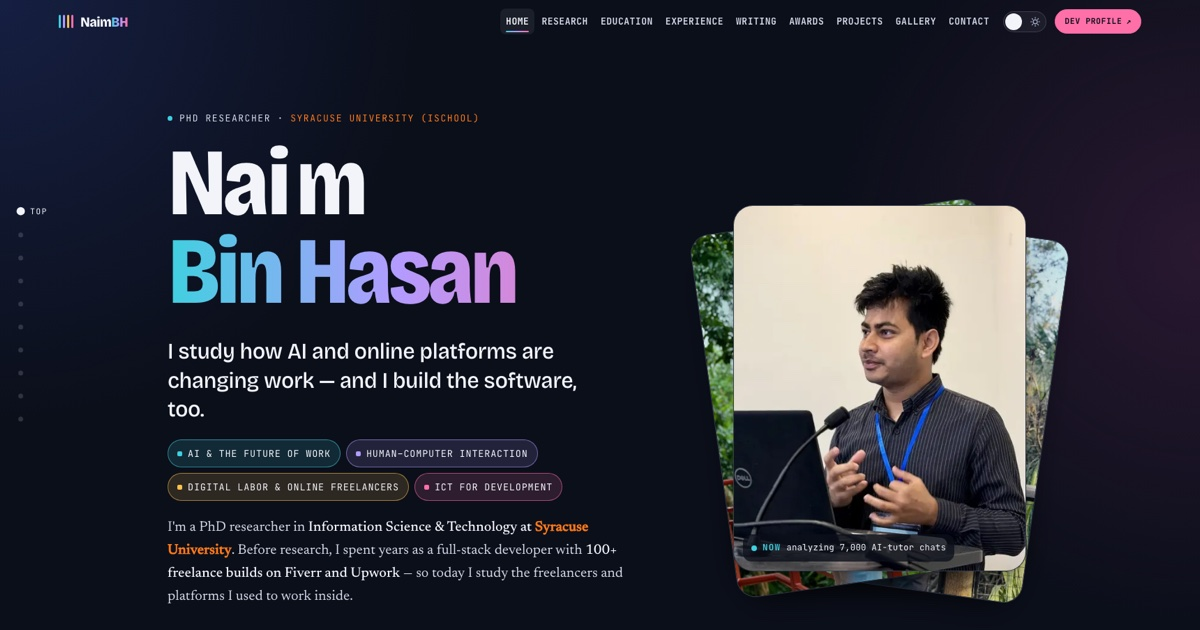
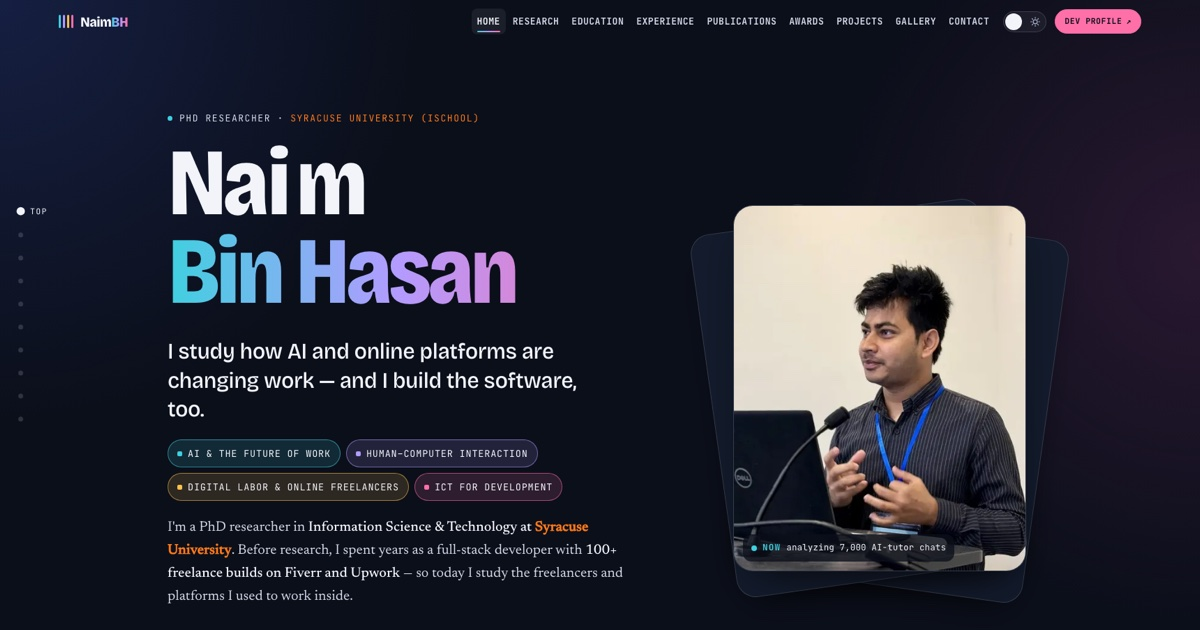
Nav: Writing -> Publications (/publications/, 301 from /writing/)

diff --git a/publications/index.html b/publications/index.html
@@ -25,7 +25,7 @@
 <meta name="facebook-domain-verification" content="nvlw079j5yth0kfxjmai7pc3fhv6aw">
 <meta name="color-scheme" content="dark light">
 <meta name="theme-color" content="#0B0F1A">
-<link rel="canonical" href="https://naimbh.com/writing/">
+<link rel="canonical" href="https://naimbh.com/publications/">
 <link rel="icon" href="/favicon.ico" sizes="48x48">
 <link rel="icon" href="/favicon.svg" type="image/svg+xml">
 <link rel="apple-touch-icon" href="/apple-touch-icon.png">
@@ -42,9 +42,9 @@
 <meta property="og:locale" content="en_US">
 <meta property="og:title" content="Publications &amp; Talks | Naim Bin Hasan">
 <meta property="og:description" content="Peer-reviewed journal articles, master's thesis and conference talks by Naim Bin Hasan (Hasan, N. B.) on AI, digital labor and Bangladeshi online freelancers.">
-<meta property="og:url" content="https://naimbh.com/writing/">
-<meta property="og:image" content="https://naimbh.com/images/og/naim-bin-hasan-academic-site.jpg?v=1">
-<meta property="og:image:secure_url" content="https://naimbh.com/images/og/naim-bin-hasan-academic-site.jpg?v=1">
+<meta property="og:url" content="https://naimbh.com/publications/">
+<meta property="og:image" content="https://naimbh.com/images/og/naim-bin-hasan-academic-site.jpg?v=2">
+<meta property="og:image:secure_url" content="https://naimbh.com/images/og/naim-bin-hasan-academic-site.jpg?v=2">
 <meta property="og:image:type" content="image/jpeg">
 <meta property="og:image:width" content="1200">
 <meta property="og:image:height" content="630">
@@ -53,7 +53,7 @@
 <meta name="twitter:card" content="summary_large_image">
 <meta name="twitter:title" content="Publications &amp; Talks | Naim Bin Hasan">
 <meta name="twitter:description" content="Peer-reviewed journal articles, master's thesis and conference talks by Naim Bin Hasan (Hasan, N. B.) on AI, digital labor and Bangladeshi online freelancers.">
-<meta name="twitter:image" content="https://naimbh.com/images/og/naim-bin-hasan-academic-site.jpg?v=1">
+<meta name="twitter:image" content="https://naimbh.com/images/og/naim-bin-hasan-academic-site.jpg?v=2">
 <meta name="twitter:image:alt" content="Homepage of naimbh.com: Naim Bin Hasan, PhD researcher at Syracuse University (iSchool)">
 
 <script type="application/ld+json">
@@ -62,8 +62,8 @@
   "@graph": [
     {
       "@type": "WebPage",
-      "@id": "https://naimbh.com/writing/#webpage",
-      "url": "https://naimbh.com/writing/",
+      "@id": "https://naimbh.com/publications/#webpage",
+      "url": "https://naimbh.com/publications/",
       "name": "Publications & Talks | Naim Bin Hasan",
       "description": "Peer-reviewed journal articles, master's thesis and conference talks by Naim Bin Hasan (Hasan, N. B.) on AI, digital labor and Bangladeshi online freelancers.",
       "inLanguage": "en",
@@ -74,13 +74,13 @@
         "@id": "https://naimbh.com/#person"
       },
       "breadcrumb": {
-        "@id": "https://naimbh.com/writing/#breadcrumb"
+        "@id": "https://naimbh.com/publications/#breadcrumb"
       },
       "dateModified": "2026-10-02"
     },
     {
       "@type": "BreadcrumbList",
-      "@id": "https://naimbh.com/writing/#breadcrumb",
+      "@id": "https://naimbh.com/publications/#breadcrumb",
       "itemListElement": [
         {
           "@type": "ListItem",
@@ -91,8 +91,8 @@
         {
           "@type": "ListItem",
           "position": 2,
-          "name": "Writing",
-          "item": "https://naimbh.com/writing/"
+          "name": "Publications",
+          "item": "https://naimbh.com/publications/"
         }
       ]
     },
@@ -985,7 +985,7 @@ html.lenis, html.lenis body{ height:auto; }
     <a href="/research/" data-sec="research">Research</a>
     <a href="/education/" data-sec="education">Education</a>
     <a href="/experience/" data-sec="work">Experience</a>
-    <a href="/writing/" data-sec="writing" class="on" aria-current="page">Writing</a>
+    <a href="/publications/" data-sec="writing" class="on" aria-current="page">Publications</a>
     <a href="/awards/" data-sec="recognition">Awards</a>
     <a href="/projects/" data-sec="projects">Projects</a>
     <a href="/gallery/" data-sec="gallery">Gallery</a>

diff --git a/index.html b/index.html
@@ -43,8 +43,8 @@
 <meta property="og:title" content="Naim Bin Hasan — PhD in IT Researcher, Syracuse University">
 <meta property="og:description" content="Researching AI and the future of work, human-computer interaction, digital labor and online freelancers, and ICT for development (ICT4D). Former full-stack developer with 100+ shipped builds.">
 <meta property="og:url" content="https://naimbh.com/">
-<meta property="og:image" content="https://naimbh.com/images/og/naim-bin-hasan-academic-site.jpg?v=1">
-<meta property="og:image:secure_url" content="https://naimbh.com/images/og/naim-bin-hasan-academic-site.jpg?v=1">
+<meta property="og:image" content="https://naimbh.com/images/og/naim-bin-hasan-academic-site.jpg?v=2">
+<meta property="og:image:secure_url" content="https://naimbh.com/images/og/naim-bin-hasan-academic-site.jpg?v=2">
 <meta property="og:image:type" content="image/jpeg">
 <meta property="og:image:width" content="1200">
 <meta property="og:image:height" content="630">
@@ -56,7 +56,7 @@
 <meta name="twitter:card" content="summary_large_image">
 <meta name="twitter:title" content="Naim Bin Hasan — PhD in IT Researcher, Syracuse University">
 <meta name="twitter:description" content="Researching AI and the future of work, human-computer interaction, digital labor and online freelancers, and ICT for development (ICT4D). Former full-stack developer with 100+ shipped builds.">
-<meta name="twitter:image" content="https://naimbh.com/images/og/naim-bin-hasan-academic-site.jpg?v=1">
+<meta name="twitter:image" content="https://naimbh.com/images/og/naim-bin-hasan-academic-site.jpg?v=2">
 <meta name="twitter:image:alt" content="Homepage of naimbh.com: Naim Bin Hasan, PhD researcher at Syracuse University (iSchool)">
 
 <script type="application/ld+json">
@@ -1883,7 +1883,7 @@ html.lenis, html.lenis body{ height:auto; }
     <a href="/research/" data-sec="research">Research</a>
     <a href="/education/" data-sec="education">Education</a>
     <a href="/experience/" data-sec="work">Experience</a>
-    <a href="/writing/" data-sec="writing">Writing</a>
+    <a href="/publications/" data-sec="writing">Publications</a>
     <a href="/awards/" data-sec="recognition">Awards</a>
     <a href="/projects/" data-sec="projects">Projects</a>
     <a href="/gallery/" data-sec="gallery">Gallery</a>
@@ -1904,7 +1904,7 @@ html.lenis, html.lenis body{ height:auto; }
   <a href="#research" data-sec="research" tabindex="-1"><span class="dot"></span><span class="lbl">Research</span></a>
   <a href="#education" data-sec="education" tabindex="-1"><span class="dot"></span><span class="lbl">Education</span></a>
   <a href="#work" data-sec="work" tabindex="-1"><span class="dot"></span><span class="lbl">Experience</span></a>
-  <a href="#writing" data-sec="writing" tabindex="-1"><span class="dot"></span><span class="lbl">Writing</span></a>
+  <a href="#writing" data-sec="writing" tabindex="-1"><span class="dot"></span><span class="lbl">Publications</span></a>
   <a href="#recognition" data-sec="recognition" tabindex="-1"><span class="dot"></span><span class="lbl">Awards</span></a>
   <a href="#projects" data-sec="projects" tabindex="-1"><span class="dot"></span><span class="lbl">Projects</span></a>
   <a href="#toolkit" data-sec="toolkit" tabindex="-1"><span class="dot"></span><span class="lbl">Toolkit</span></a>

diff --git a/awards/index.html b/awards/index.html
@@ -43,8 +43,8 @@
 <meta property="og:title" content="Awards &amp; Fellowships | Naim Bin Hasan">
 <meta property="og:description" content="Funding, fellowships and awards received by Naim Bin Hasan, including a Purdue Graduate Excellence Fellowship offer, the FAU Sociology Graduate Student Achievement Award and an AIBS fellowship.">
 <meta property="og:url" content="https://naimbh.com/awards/">
-<meta property="og:image" content="https://naimbh.com/images/og/naim-bin-hasan-academic-site.jpg?v=1">
-<meta property="og:image:secure_url" content="https://naimbh.com/images/og/naim-bin-hasan-academic-site.jpg?v=1">
+<meta property="og:image" content="https://naimbh.com/images/og/naim-bin-hasan-academic-site.jpg?v=2">
+<meta property="og:image:secure_url" content="https://naimbh.com/images/og/naim-bin-hasan-academic-site.jpg?v=2">
 <meta property="og:image:type" content="image/jpeg">
 <meta property="og:image:width" content="1200">
 <meta property="og:image:height" content="630">
@@ -53,7 +53,7 @@
 <meta name="twitter:card" content="summary_large_image">
 <meta name="twitter:title" content="Awards &amp; Fellowships | Naim Bin Hasan">
 <meta name="twitter:description" content="Funding, fellowships and awards received by Naim Bin Hasan, including a Purdue Graduate Excellence Fellowship offer, the FAU Sociology Graduate Student Achievement Award and an AIBS fellowship.">
-<meta name="twitter:image" content="https://naimbh.com/images/og/naim-bin-hasan-academic-site.jpg?v=1">
+<meta name="twitter:image" content="https://naimbh.com/images/og/naim-bin-hasan-academic-site.jpg?v=2">
 <meta name="twitter:image:alt" content="Homepage of naimbh.com: Naim Bin Hasan, PhD researcher at Syracuse University (iSchool)">
 
 <script type="application/ld+json">
@@ -957,7 +957,7 @@ html.lenis, html.lenis body{ height:auto; }
     <a href="/research/" data-sec="research">Research</a>
     <a href="/education/" data-sec="education">Education</a>
     <a href="/experience/" data-sec="work">Experience</a>
-    <a href="/writing/" data-sec="writing">Writing</a>
+    <a href="/publications/" data-sec="writing">Publications</a>
     <a href="/awards/" data-sec="recognition" class="on" aria-current="page">Awards</a>
     <a href="/projects/" data-sec="projects">Projects</a>
     <a href="/gallery/" data-sec="gallery">Gallery</a>
@@ -1012,7 +1012,7 @@ html.lenis, html.lenis body{ height:auto; }
   </div>
 </section>
 
-<nav class="wrap pg-more" aria-label="More pages"><a href="/writing/">← Writing</a><a class="home" href="/">All of naimbh.com</a><a href="/projects/">Projects →</a></nav>
+<nav class="wrap pg-more" aria-label="More pages"><a href="/publications/">← Publications</a><a class="home" href="/">All of naimbh.com</a><a href="/projects/">Projects →</a></nav>
 </main>
 
 <footer>

diff --git a/experience/index.html b/experience/index.html
@@ -43,8 +43,8 @@
 <meta property="og:title" content="Experience | Naim Bin Hasan, Researcher &amp; Developer">
 <meta property="og:description" content="Research, teaching and software engineering experience of Naim Bin Hasan, from the Syracuse University iSchool and Florida Atlantic University to full-stack development work.">
 <meta property="og:url" content="https://naimbh.com/experience/">
-<meta property="og:image" content="https://naimbh.com/images/og/naim-bin-hasan-academic-site.jpg?v=1">
-<meta property="og:image:secure_url" content="https://naimbh.com/images/og/naim-bin-hasan-academic-site.jpg?v=1">
+<meta property="og:image" content="https://naimbh.com/images/og/naim-bin-hasan-academic-site.jpg?v=2">
+<meta property="og:image:secure_url" content="https://naimbh.com/images/og/naim-bin-hasan-academic-site.jpg?v=2">
 <meta property="og:image:type" content="image/jpeg">
 <meta property="og:image:width" content="1200">
 <meta property="og:image:height" content="630">
@@ -53,7 +53,7 @@
 <meta name="twitter:card" content="summary_large_image">
 <meta name="twitter:title" content="Experience | Naim Bin Hasan, Researcher &amp; Developer">
 <meta name="twitter:description" content="Research, teaching and software engineering experience of Naim Bin Hasan, from the Syracuse University iSchool and Florida Atlantic University to full-stack development work.">
-<meta name="twitter:image" content="https://naimbh.com/images/og/naim-bin-hasan-academic-site.jpg?v=1">
+<meta name="twitter:image" content="https://naimbh.com/images/og/naim-bin-hasan-academic-site.jpg?v=2">
 <meta name="twitter:image:alt" content="Homepage of naimbh.com: Naim Bin Hasan, PhD researcher at Syracuse University (iSchool)">
 
 <script type="application/ld+json">
@@ -957,7 +957,7 @@ html.lenis, html.lenis body{ height:auto; }
     <a href="/research/" data-sec="research">Research</a>
     <a href="/education/" data-sec="education">Education</a>
     <a href="/experience/" data-sec="work" class="on" aria-current="page">Experience</a>
-    <a href="/writing/" data-sec="writing">Writing</a>
+    <a href="/publications/" data-sec="writing">Publications</a>
     <a href="/awards/" data-sec="recognition">Awards</a>
     <a href="/projects/" data-sec="projects">Projects</a>
     <a href="/gallery/" data-sec="gallery">Gallery</a>
@@ -1059,7 +1059,7 @@ html.lenis, html.lenis body{ height:auto; }
   </div>
 </section>
 
-<nav class="wrap pg-more" aria-label="More pages"><a href="/education/">← Education</a><a class="home" href="/">All of naimbh.com</a><a href="/writing/">Writing →</a></nav>
+<nav class="wrap pg-more" aria-label="More pages"><a href="/education/">← Education</a><a class="home" href="/">All of naimbh.com</a><a href="/publications/">Publications →</a></nav>
 </main>
 
 <footer>

diff --git a/education/index.html b/education/index.html
@@ -43,8 +43,8 @@
 <meta property="og:title" content="Education | Naim Bin Hasan, PhD in IT at Syracuse University">
 <meta property="og:description" content="Education of Naim Bin Hasan: PhD in Information Science and Technology at the Syracuse University iSchool, MA in Sociology at Florida Atlantic University, and BSS and MSS at the University of Dhaka.">
 <meta property="og:url" content="https://naimbh.com/education/">
-<meta property="og:image" content="https://naimbh.com/images/og/naim-bin-hasan-academic-site.jpg?v=1">
-<meta property="og:image:secure_url" content="https://naimbh.com/images/og/naim-bin-hasan-academic-site.jpg?v=1">
+<meta property="og:image" content="https://naimbh.com/images/og/naim-bin-hasan-academic-site.jpg?v=2">
+<meta property="og:image:secure_url" content="https://naimbh.com/images/og/naim-bin-hasan-academic-site.jpg?v=2">
 <meta property="og:image:type" content="image/jpeg">
 <meta property="og:image:width" content="1200">
 <meta property="og:image:height" content="630">
@@ -53,7 +53,7 @@
 <meta name="twitter:card" content="summary_large_image">
 <meta name="twitter:title" content="Education | Naim Bin Hasan, PhD in IT at Syracuse University">
 <meta name="twitter:description" content="Education of Naim Bin Hasan: PhD in Information Science and Technology at the Syracuse University iSchool, MA in Sociology at Florida Atlantic University, and BSS and MSS at the University of Dhaka.">
-<meta name="twitter:image" content="https://naimbh.com/images/og/naim-bin-hasan-academic-site.jpg?v=1">
+<meta name="twitter:image" content="https://naimbh.com/images/og/naim-bin-hasan-academic-site.jpg?v=2">
 <meta name="twitter:image:alt" content="Homepage of naimbh.com: Naim Bin Hasan, PhD researcher at Syracuse University (iSchool)">
 
 <script type="application/ld+json">
@@ -957,7 +957,7 @@ html.lenis, html.lenis body{ height:auto; }
     <a href="/research/" data-sec="research">Research</a>
     <a href="/education/" data-sec="education" class="on" aria-current="page">Education</a>
     <a href="/experience/" data-sec="work">Experience</a>
-    <a href="/writing/" data-sec="writing">Writing</a>
+    <a href="/publications/" data-sec="writing">Publications</a>
     <a href="/awards/" data-sec="recognition">Awards</a>
     <a href="/projects/" data-sec="projects">Projects</a>
     <a href="/gallery/" data-sec="gallery">Gallery</a>

diff --git a/research/index.html b/research/index.html
@@ -43,8 +43,8 @@
 <meta property="og:title" content="Research Interests | Naim Bin Hasan, Syracuse University">
 <meta property="og:description" content="Naim Bin Hasan's research on AI and the future of work, human-computer interaction (HCI), digital labor and online freelancers, and ICT for development (ICT4D).">
 <meta property="og:url" content="https://naimbh.com/research/">
-<meta property="og:image" content="https://naimbh.com/images/og/naim-bin-hasan-academic-site.jpg?v=1">
-<meta property="og:image:secure_url" content="https://naimbh.com/images/og/naim-bin-hasan-academic-site.jpg?v=1">
+<meta property="og:image" content="https://naimbh.com/images/og/naim-bin-hasan-academic-site.jpg?v=2">
+<meta property="og:image:secure_url" content="https://naimbh.com/images/og/naim-bin-hasan-academic-site.jpg?v=2">
 <meta property="og:image:type" content="image/jpeg">
 <meta property="og:image:width" content="1200">
 <meta property="og:image:height" content="630">
@@ -53,7 +53,7 @@
 <meta name="twitter:card" content="summary_large_image">
 <meta name="twitter:title" content="Research Interests | Naim Bin Hasan, Syracuse University">
 <meta name="twitter:description" content="Naim Bin Hasan's research on AI and the future of work, human-computer interaction (HCI), digital labor and online freelancers, and ICT for development (ICT4D).">
-<meta name="twitter:image" content="https://naimbh.com/images/og/naim-bin-hasan-academic-site.jpg?v=1">
+<meta name="twitter:image" content="https://naimbh.com/images/og/naim-bin-hasan-academic-site.jpg?v=2">
 <meta name="twitter:image:alt" content="Homepage of naimbh.com: Naim Bin Hasan, PhD researcher at Syracuse University (iSchool)">
 
 <script type="application/ld+json">
@@ -957,7 +957,7 @@ html.lenis, html.lenis body{ height:auto; }
     <a href="/research/" data-sec="research" class="on" aria-current="page">Research</a>
     <a href="/education/" data-sec="education">Education</a>
     <a href="/experience/" data-sec="work">Experience</a>
-    <a href="/writing/" data-sec="writing">Writing</a>
+    <a href="/publications/" data-sec="writing">Publications</a>
     <a href="/awards/" data-sec="recognition">Awards</a>
     <a href="/projects/" data-sec="projects">Projects</a>
     <a href="/gallery/" data-sec="gallery">Gallery</a>

diff --git a/projects/index.html b/projects/index.html
@@ -43,8 +43,8 @@
 <meta property="og:title" content="Projects, Methods &amp; Stack | Naim Bin Hasan">
 <meta property="og:description" content="Applied systems built by Naim Bin Hasan, custom CMSs, SaaS and real-time apps, plus the research methods and software stack he works with.">
 <meta property="og:url" content="https://naimbh.com/projects/">
-<meta property="og:image" content="https://naimbh.com/images/og/naim-bin-hasan-academic-site.jpg?v=1">
-<meta property="og:image:secure_url" content="https://naimbh.com/images/og/naim-bin-hasan-academic-site.jpg?v=1">
+<meta property="og:image" content="https://naimbh.com/images/og/naim-bin-hasan-academic-site.jpg?v=2">
+<meta property="og:image:secure_url" content="https://naimbh.com/images/og/naim-bin-hasan-academic-site.jpg?v=2">
 <meta property="og:image:type" content="image/jpeg">
 <meta property="og:image:width" content="1200">
 <meta property="og:image:height" content="630">
@@ -53,7 +53,7 @@
 <meta name="twitter:card" content="summary_large_image">
 <meta name="twitter:title" content="Projects, Methods &amp; Stack | Naim Bin Hasan">
 <meta name="twitter:description" content="Applied systems built by Naim Bin Hasan, custom CMSs, SaaS and real-time apps, plus the research methods and software stack he works with.">
-<meta name="twitter:image" content="https://naimbh.com/images/og/naim-bin-hasan-academic-site.jpg?v=1">
+<meta name="twitter:image" content="https://naimbh.com/images/og/naim-bin-hasan-academic-site.jpg?v=2">
 <meta name="twitter:image:alt" content="Homepage of naimbh.com: Naim Bin Hasan, PhD researcher at Syracuse University (iSchool)">
 
 <script type="application/ld+json">
@@ -957,7 +957,7 @@ html.lenis, html.lenis body{ height:auto; }
     <a href="/research/" data-sec="research">Research</a>
     <a href="/education/" data-sec="education">Education</a>
     <a href="/experience/" data-sec="work">Experience</a>
-    <a href="/writing/" data-sec="writing">Writing</a>
+    <a href="/publications/" data-sec="writing">Publications</a>
     <a href="/awards/" data-sec="recognition">Awards</a>
     <a href="/projects/" data-sec="projects" class="on" aria-current="page">Projects</a>
     <a href="/gallery/" data-sec="gallery">Gallery</a>

diff --git a/contact/index.html b/contact/index.html
@@ -43,8 +43,8 @@
 <meta property="og:title" content="Contact Naim Bin Hasan | Syracuse University iSchool">
 <meta property="og:description" content="Contact Naim Bin Hasan, PhD researcher at the Syracuse University School of Information Studies (iSchool), 337 Hinds Hall, Syracuse, NY 13244.">
 <meta property="og:url" content="https://naimbh.com/contact/">
-<meta property="og:image" content="https://naimbh.com/images/og/naim-bin-hasan-academic-site.jpg?v=1">
-<meta property="og:image:secure_url" content="https://naimbh.com/images/og/naim-bin-hasan-academic-site.jpg?v=1">
+<meta property="og:image" content="https://naimbh.com/images/og/naim-bin-hasan-academic-site.jpg?v=2">
+<meta property="og:image:secure_url" content="https://naimbh.com/images/og/naim-bin-hasan-academic-site.jpg?v=2">
 <meta property="og:image:type" content="image/jpeg">
 <meta property="og:image:width" content="1200">
 <meta property="og:image:height" content="630">
@@ -53,7 +53,7 @@
 <meta name="twitter:card" content="summary_large_image">
 <meta name="twitter:title" content="Contact Naim Bin Hasan | Syracuse University iSchool">
 <meta name="twitter:description" content="Contact Naim Bin Hasan, PhD researcher at the Syracuse University School of Information Studies (iSchool), 337 Hinds Hall, Syracuse, NY 13244.">
-<meta name="twitter:image" content="https://naimbh.com/images/og/naim-bin-hasan-academic-site.jpg?v=1">
+<meta name="twitter:image" content="https://naimbh.com/images/og/naim-bin-hasan-academic-site.jpg?v=2">
 <meta name="twitter:image:alt" content="Homepage of naimbh.com: Naim Bin Hasan, PhD researcher at Syracuse University (iSchool)">
 
 <script type="application/ld+json">
@@ -957,7 +957,7 @@ html.lenis, html.lenis body{ height:auto; }
     <a href="/research/" data-sec="research">Research</a>
     <a href="/education/" data-sec="education">Education</a>
     <a href="/experience/" data-sec="work">Experience</a>
-    <a href="/writing/" data-sec="writing">Writing</a>
+    <a href="/publications/" data-sec="writing">Publications</a>
     <a href="/awards/" data-sec="recognition">Awards</a>
     <a href="/projects/" data-sec="projects">Projects</a>
     <a href="/gallery/" data-sec="gallery">Gallery</a>

diff --git a/gallery/index.html b/gallery/index.html
@@ -43,8 +43,8 @@
 <meta property="og:title" content="Photos of Naim Bin Hasan | Gallery">
 <meta property="og:description" content="Photos of Naim Bin Hasan at Syracuse University, Florida Atlantic University, the University of Dhaka, conferences and PhD visits.">
 <meta property="og:url" content="https://naimbh.com/gallery/">
-<meta property="og:image" content="https://naimbh.com/images/og/naim-bin-hasan-academic-site.jpg?v=1">
-<meta property="og:image:secure_url" content="https://naimbh.com/images/og/naim-bin-hasan-academic-site.jpg?v=1">
+<meta property="og:image" content="https://naimbh.com/images/og/naim-bin-hasan-academic-site.jpg?v=2">
+<meta property="og:image:secure_url" content="https://naimbh.com/images/og/naim-bin-hasan-academic-site.jpg?v=2">
 <meta property="og:image:type" content="image/jpeg">
 <meta property="og:image:width" content="1200">
 <meta property="og:image:height" content="630">
@@ -53,7 +53,7 @@
 <meta name="twitter:card" content="summary_large_image">
 <meta name="twitter:title" content="Photos of Naim Bin Hasan | Gallery">
 <meta name="twitter:description" content="Photos of Naim Bin Hasan at Syracuse University, Florida Atlantic University, the University of Dhaka, conferences and PhD visits.">
-<meta name="twitter:image" content="https://naimbh.com/images/og/naim-bin-hasan-academic-site.jpg?v=1">
+<meta name="twitter:image" content="https://naimbh.com/images/og/naim-bin-hasan-academic-site.jpg?v=2">
 <meta name="twitter:image:alt" content="Homepage of naimbh.com: Naim Bin Hasan, PhD researcher at Syracuse University (iSchool)">
 
 <script type="application/ld+json">
@@ -1692,7 +1692,7 @@ html.lenis, html.lenis body{ height:auto; }
     <a href="/research/" data-sec="research">Research</a>
     <a href="/education/" data-sec="education">Education</a>
     <a href="/experience/" data-sec="work">Experience</a>
-    <a href="/writing/" data-sec="writing">Writing</a>
+    <a href="/publications/" data-sec="writing">Publications</a>
     <a href="/awards/" data-sec="recognition">Awards</a>
     <a href="/projects/" data-sec="projects">Projects</a>
     <a href="/gallery/" data-sec="gallery" class="on" aria-current="page">Gallery</a>

diff --git a/tools/build_pages.py b/tools/build_pages.py
@@ -38,7 +38,7 @@ SITES = [
             {"slug": "experience", "ids": ["work"], "label": "Experience",
              "title": "Experience | Naim Bin Hasan, Researcher & Developer",
              "desc": "Research, teaching and software engineering experience of Naim Bin Hasan, from the Syracuse University iSchool and Florida Atlantic University to full-stack development work."},
-            {"slug": "writing", "ids": ["writing"], "label": "Writing",
+            {"slug": "publications", "ids": ["writing"], "label": "Publications",
              "title": "Publications & Talks | Naim Bin Hasan",
              "desc": "Peer-reviewed journal articles, master's thesis and conference talks by Naim Bin Hasan (Hasan, N. B.) on AI, digital labor and Bangladeshi online freelancers.",
              "jsonld": ["ScholarlyArticle", "Thesis"]},
